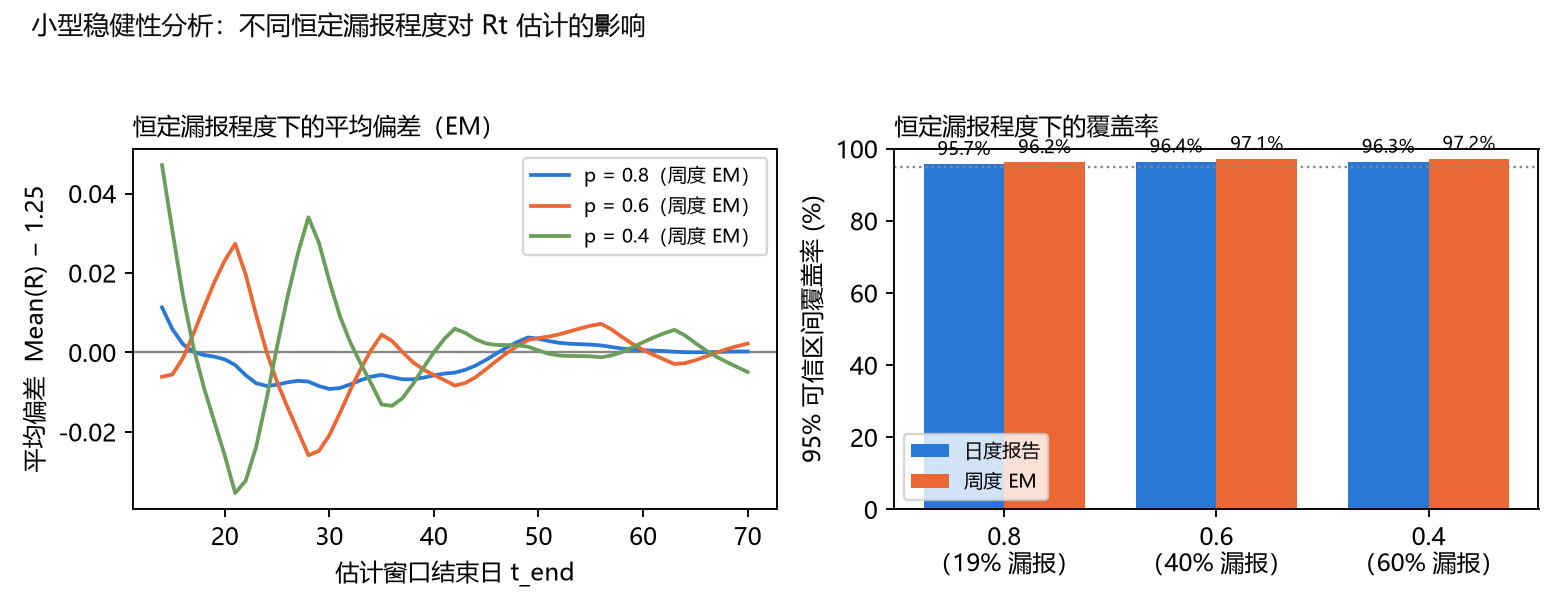
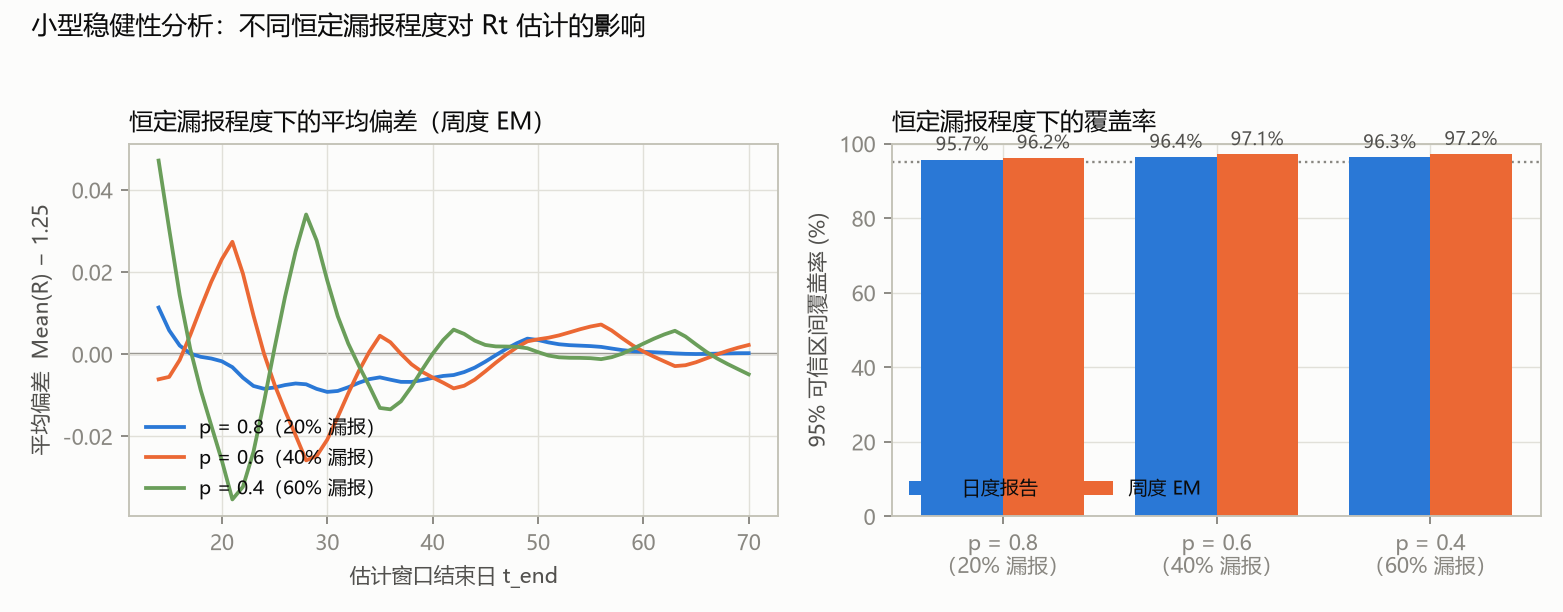
fix constant-p figure: round underreporting pct label + apply dataviz style

Changed region(s): [[0.0, 0.1552, 1.0, 0.9624]]

diff --git a/experiments/analysis/robustness_constant_p.py b/experiments/analysis/robustness_constant_p.py
@@ -28,12 +28,6 @@ import matplotlib
 matplotlib.use("Agg")
 import matplotlib.pyplot as plt
 
-plt.rcParams.update({
-    "font.family": "sans-serif",
-    "font.sans-serif": ["Microsoft YaHei", "DejaVu Sans"],
-    "axes.unicode_minus": False,
-})
-
 from epiestim import discr_si, estimate_R, estimate_R_agg, simulate_incidence
 from epiestim.reporting import aggregate_incidence, apply_reporting
 
@@ -47,10 +41,36 @@ REPORTING_SEED = 4300      # one fixed seed for all levels -> only p varies
 P_LEVELS = (0.8, 0.6, 0.4)
 MEAN_SI, STD_SI = 3.6, 1.6
 
+SURFACE = "#fcfcfb"
+INK = "#0b0b0b"
+INK_2 = "#52514e"
+MUTED = "#898781"
+GRID = "#e1e0d9"
+AXIS = "#c3c2b7"
 DAILY = "#2a78d6"
 EM = "#eb6834"
-MUTED = "#898781"
-INK = "#0b0b0b"
+
+plt.rcParams.update({
+    "figure.facecolor": SURFACE,
+    "axes.facecolor": SURFACE,
+    "savefig.facecolor": SURFACE,
+    "text.color": INK,
+    "axes.labelcolor": INK_2,
+    "xtick.color": MUTED,
+    "ytick.color": MUTED,
+    "axes.edgecolor": AXIS,
+    "axes.linewidth": 0.8,
+    "grid.color": GRID,
+    "grid.linewidth": 0.6,
+    "font.family": "sans-serif",
+    "font.sans-serif": ["Microsoft YaHei", "DejaVu Sans"],
+    "axes.unicode_minus": False,
+    "font.size": 9,
+    "axes.titlesize": 10,
+    "legend.frameon": False,
+    "axes.grid": True,
+    "axes.axisbelow": True,
+})
 
 
 def _simulation_si():
@@ -118,12 +138,12 @@ def _make_figure(df, path):
                  (df.estimation_method == "weekly_em")]
         grp = sub.groupby("t_end")["bias"].mean()
         ax1.plot(grp.index, grp.values, color=color, linewidth=1.6,
-                 label=f"p = {p:g}（周度 EM）")
+                 label=f"p = {p:g}（{round((1 - p) * 100)}% 漏报）")
     ax1.axhline(0, color=MUTED, linewidth=1.0, zorder=0)
-    ax1.set_title("恒定漏报程度下的平均偏差（EM）", loc="left", fontsize=10)
+    ax1.set_title("恒定漏报程度下的平均偏差（周度 EM）", loc="left")
     ax1.set_xlabel("估计窗口结束日 t_end")
     ax1.set_ylabel("平均偏差  Mean(R) − 1.25")
-    ax1.legend(fontsize=8)
+    ax1.legend(fontsize=8, loc="lower left")
 
     # right: coverage per level
     cov = (df.groupby(["reporting_scenario", "estimation_method"])["covered"]
@@ -136,14 +156,15 @@ def _make_figure(df, path):
                     (cov.estimation_method == method)].covered.iloc[0]
                 for p in P_LEVELS]
         bars = ax2.bar(x + (i - 0.5) * width, vals, width, color=color, label=label)
-        ax2.bar_label(bars, fmt="%.1f%%", fontsize=7.5, padding=2)
-    ax2.axhline(95, color=MUTED, linewidth=1.0, linestyle=":")
+        ax2.bar_label(bars, fmt="%.1f%%", fontsize=7.5, color=INK_2, padding=2)
+    ax2.axhline(95, color=MUTED, linewidth=1.0, linestyle=":", zorder=0)
     ax2.set_xticks(x)
-    ax2.set_xticklabels([f"{p:g}\n（{int((1-p)*100)}% 漏报）" for p in P_LEVELS])
+    ax2.set_xticklabels([f"p = {p:g}\n（{round((1 - p) * 100)}% 漏报）"
+                         for p in P_LEVELS])
     ax2.set_ylim(0, 100)
     ax2.set_ylabel("95% 可信区间覆盖率 (%)")
-    ax2.set_title("恒定漏报程度下的覆盖率", loc="left", fontsize=10)
-    ax2.legend(fontsize=8, loc="lower left")
+    ax2.set_title("恒定漏报程度下的覆盖率", loc="left")
+    ax2.legend(fontsize=8, loc="lower left", ncol=2)
 
     fig.suptitle("小型稳健性分析：不同恒定漏报程度对 Rt 估计的影响", fontsize=11,
                  x=0.02, ha="left", color=INK)
